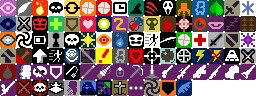
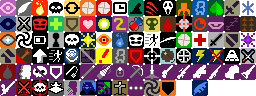
v0.0.9 Developing new hero - skill tier 3

Changed region(s): [[0.6875, 0.8125, 0.8125, 1.0]]

diff --git a/core/src/main/java/com/shatteredpixel/shatteredpixeldungeon/actors/buffs/DefenderBuff.java b/core/src/main/java/com/shatteredpixel/shatteredpixeldungeon/actors/buffs/DefenderBuff.java
@@ -1,0 +1,75 @@
+package com.shatteredpixel.shatteredpixeldungeon.actors.buffs;
+
+import com.shatteredpixel.shatteredpixeldungeon.Dungeon;
+import com.shatteredpixel.shatteredpixeldungeon.actors.hero.Talent;
+import com.shatteredpixel.shatteredpixeldungeon.messages.Messages;
+import com.shatteredpixel.shatteredpixeldungeon.ui.BuffIndicator;
+import com.watabou.noosa.Image;
+import com.watabou.utils.Bundle;
+
+public class DefenderBuff extends Buff {
+
+    {
+        type = buffType.POSITIVE;
+        announced = true;
+    }
+
+    public int defenseCounter = 5 + Dungeon.hero.pointsInTalent(Talent.SHOCKWAVE_ABSORB);
+    public int defenseLeft = 5;
+    public int chargeCount = 0;
+    public int maxCount = 8 - Dungeon.hero.pointsInTalent(Talent.SHOCKWAVE_ABSORB);
+
+    private static final String COUNT	= "count";
+    private static final String LEFT	= "left";
+
+    @Override
+    public void storeInBundle( Bundle bundle ) {
+        super.storeInBundle( bundle );
+        bundle.put( COUNT, defenseCounter );
+        bundle.put( LEFT, defenseLeft );
+
+    }
+
+    @Override
+    public void restoreFromBundle( Bundle bundle ) {
+        super.restoreFromBundle( bundle );
+        defenseCounter = bundle.getInt( COUNT );
+        defenseLeft = bundle.getInt( LEFT );
+    }
+
+    public int getDefenseCounter() {
+        return this.defenseCounter;
+    }
+
+    public int getDefenseLeft() {
+        return this.defenseLeft;
+    }
+
+    public void countAddition() {
+        if (chargeCount >= maxCount && defenseCounter > defenseLeft) {
+            defenseLeft++;
+            chargeCount = 0;
+        }
+    }
+
+    @Override
+    public int icon() {
+        return BuffIndicator.DEFENDER_BARRIER;
+    }
+
+    @Override
+    public void tintIcon(Image icon) {
+        icon.hardlight(2f, 0.75f, 0f);
+    }
+
+    @Override
+    public float iconFadePercent() {
+        return Math.max(0, defenseLeft / defenseCounter);
+    }
+
+    @Override
+    public String desc() {
+        return Messages.get(this, "desc", defenseCounter);
+    }
+
+}

diff --git a/core/src/main/java/com/shatteredpixel/shatteredpixeldungeon/actors/mobs/Mob.java b/core/src/main/java/com/shatteredpixel/shatteredpixeldungeon/actors/mobs/Mob.java
@@ -46,6 +46,7 @@ import com.shatteredpixel.shatteredpixeldungeon.actors.buffs.Charm;
 import com.shatteredpixel.shatteredpixeldungeon.actors.buffs.Chill;
 import com.shatteredpixel.shatteredpixeldungeon.actors.buffs.CommandBuff;
 import com.shatteredpixel.shatteredpixeldungeon.actors.buffs.Corruption;
+import com.shatteredpixel.shatteredpixeldungeon.actors.buffs.DefenderBuff;
 import com.shatteredpixel.shatteredpixeldungeon.actors.buffs.Dread;
 import com.shatteredpixel.shatteredpixeldungeon.actors.buffs.FlavourBuff;
 import com.shatteredpixel.shatteredpixeldungeon.actors.buffs.Haste;
@@ -673,9 +674,6 @@ public abstract class Mob extends Char {
 		attack( enemy );
 		Invisibility.dispel(this);
 		spend( attackDelay() );
-		if (hero.hasTalent(Talent.REACTIVE_ARMOR)) {
-			HP -= 4*hero.pointsInTalent(Talent.REACTIVE_ARMOR);
-		}
 		super.onAttackComplete();
 	}
 	
@@ -884,7 +882,7 @@ public abstract class Mob extends Char {
 					&& Dungeon.hero.hasTalent(Talent.SCANNING)
 					&& Dungeon.hero.buff(Talent.ScanningCoolDown.class) == null) {
 				Buff.affect(hero, Tacsight.class, 1+Dungeon.hero.pointsInTalent(Talent.SCANNING));
-				Buff.affect(hero, Talent.ScanningCoolDown.class, 95-5*Dungeon.hero.pointsInTalent(Talent.SCANNING));
+				Buff.affect(hero, Talent.ScanningCoolDown.class, 100-10*Dungeon.hero.pointsInTalent(Talent.SCANNING));
 			}
 
 			if (Dungeon.hero.heroClass == HeroClass.CARROLL
@@ -903,6 +901,15 @@ public abstract class Mob extends Char {
 						FirearmWeapon.Charger.killCount = 0;
 					}
 				}
+			}
+			if (Dungeon.hero.subClass == HeroSubClass.DEFENDER && Dungeon.hero.buff(DefenderBuff.class) != null) {
+				Buff.affect(hero, DefenderBuff.class).chargeCount++;
+				if (hero.hasTalent(Talent.DEFENCE_MATRIX)) {
+					if (Random.Int(10) < Dungeon.hero.pointsInTalent(Talent.DEFENCE_MATRIX)) {
+						Buff.affect(hero, DefenderBuff.class).chargeCount++;
+					}
+				}
+				Buff.affect(hero, DefenderBuff.class).countAddition();
 			}
 		}
 

diff --git a/core/src/main/java/com/shatteredpixel/shatteredpixeldungeon/actors/hero/Hero.java b/core/src/main/java/com/shatteredpixel/shatteredpixeldungeon/actors/hero/Hero.java
@@ -53,6 +53,7 @@ import com.shatteredpixel.shatteredpixeldungeon.actors.buffs.CenobiteEnergy;
 import com.shatteredpixel.shatteredpixeldungeon.actors.buffs.Charm;
 import com.shatteredpixel.shatteredpixeldungeon.actors.buffs.CloseQuarters;
 import com.shatteredpixel.shatteredpixeldungeon.actors.buffs.Combo;
+import com.shatteredpixel.shatteredpixeldungeon.actors.buffs.DefenderBuff;
 import com.shatteredpixel.shatteredpixeldungeon.actors.buffs.DragonBuff;
 import com.shatteredpixel.shatteredpixeldungeon.actors.buffs.Drowsy;
 import com.shatteredpixel.shatteredpixeldungeon.actors.buffs.FlavourBuff;
@@ -799,7 +800,7 @@ public class Hero extends Char {
 		if (this.subClass == HeroSubClass.CAPTAIN) {
 			CaptainCombo combo = (CaptainCombo) buff(CaptainCombo.class);
 			if (combo != null) {
-				accuracy *= 0.3f * combo.getComboCount();
+				accuracy += 0.003f * combo.getComboCount();
 			}
 		}
 
@@ -1838,6 +1839,18 @@ public class Hero extends Char {
 			if (barrier.left <= 0) {
 				barrier.detach();
 			}
+			Sample.INSTANCE.play(Assets.Sounds.HIT_PARRY, 0.75f, 1f);
+		}
+
+		DefenderBuff defenderBuff = hero.buff(DefenderBuff.class);
+		if (defenderBuff != null && defenderBuff.getDefenseLeft() > 0) {
+			dmg -= 99999;
+			if (hero.hasTalent(Talent.DEFENCE_MATRIX) && Random.Int(50) < hero.pointsInTalent(Talent.DEFENCE_MATRIX)) {
+				//don't spend the count
+			} else {
+				defenderBuff.defenseLeft--;
+			}
+			Camera.main.shake( 1.5f, 0.2f );
 			Sample.INSTANCE.play(Assets.Sounds.HIT_PARRY, 0.75f, 1f);
 		}
 

diff --git a/core/src/main/java/com/shatteredpixel/shatteredpixeldungeon/actors/buffs/CaptainCombo.java b/core/src/main/java/com/shatteredpixel/shatteredpixeldungeon/actors/buffs/CaptainCombo.java
@@ -182,11 +182,11 @@ public class CaptainCombo extends Buff implements ActionIndicator.Action {
     }
 
     public enum ComboMove {
-        CAS(5, 0xFF00FF00),         // skill-1
-        SUPPLYI   (10, 0xFFCCFF00), // skill-2
-        RECON  (20, 0xFFFFFF00),    // skill-3
-        SUPPLYII (30, 0xFFFFCC00),  // skill-4
-        ANNIHILATION (40, 0xFFFF0000); // skill-5
+        CAS         (5, 0xFF00FF00),  // skill-1
+        SUPPLYI     (10, 0xFFCCFF00), // skill-2
+        RECON       (20, 0xFFFFFF00), // skill-3
+        SUPPLYII    (30, 0xFFFFCC00), // skill-4
+        ANNIHILATION(40, 0xFFFF0000); // skill-5
 
         public int comboReq, tintColor;
 

diff --git a/core/src/main/java/com/shatteredpixel/shatteredpixeldungeon/items/armor/Armor.java b/core/src/main/java/com/shatteredpixel/shatteredpixeldungeon/items/armor/Armor.java
@@ -454,6 +454,11 @@ public class Armor extends EquipableItem {
 
 		if (hero.hasTalent(Talent.REACTIVE_ARMOR)) {
 			damage *= 1 - 0.07f*hero.pointsInTalent(Talent.REACTIVE_ARMOR);
+			if (attacker.HP > 4*hero.pointsInTalent(Talent.REACTIVE_ARMOR) && !(attacker.properties().contains(Char.Property.BOSS))) {
+				attacker.HP -= 4*hero.pointsInTalent(Talent.REACTIVE_ARMOR);
+				attacker.sprite.bloodBurstA(attacker.sprite.center(), 4*hero.pointsInTalent(Talent.REACTIVE_ARMOR));
+				attacker.sprite.flash();
+			}
 		}
 		
 		if (!levelKnown && defender == Dungeon.hero) {

diff --git a/core/src/main/java/com/shatteredpixel/shatteredpixeldungeon/ui/BuffIndicator.java b/core/src/main/java/com/shatteredpixel/shatteredpixeldungeon/ui/BuffIndicator.java
@@ -138,8 +138,9 @@ public class BuffIndicator extends Component {
 	public static final int CENOBITE_ENERGY	= 87;
 	public static final int DUEL_COMBO		= 89;
 	public static final int DAZE			= 90;
-	public static final int DEFENDING		= 91;
-	public static final int DRAGON			= 92;
+	public static final int REACT_SHIELD	= 91;
+	public static final int DEFENDER_BARRIER= 92;
+	public static final int DRAGON			= 93;
 
 	public static final int SIZE_SMALL  = 7;
 	public static final int SIZE_LARGE  = 16;

diff --git a/core/src/main/java/com/shatteredpixel/shatteredpixeldungeon/actors/hero/Talent.java b/core/src/main/java/com/shatteredpixel/shatteredpixeldungeon/actors/hero/Talent.java
@@ -997,6 +997,9 @@ public enum Talent {
 		if (hero.pointsInTalent(HUNTERS_INTUITION) == 2 && item instanceof MeleeWeapon && !(item instanceof FirearmWeapon)) {
 			item.identify();
 		}
+		if (hero.pointsInTalent(HARDENED_INTUTION) == 2 && item instanceof Armor) {
+			item.identify();
+		}
 	}
 
 	//note that IDing can happen in alchemy scene, so be careful with VFX here

diff --git a/core/src/main/java/com/shatteredpixel/shatteredpixeldungeon/Badges.java b/core/src/main/java/com/shatteredpixel/shatteredpixeldungeon/Badges.java
@@ -954,10 +954,9 @@ public class Badges {
 	}
 
 	public static void validateMagnusUnlock(){
-		if (Dungeon.hero.lvl >= 15 && !isUnlocked(Badge.UNLOCK_MAGNUS)) {
+		if (Dungeon.hero.lvl == 15 && !isUnlocked(Badge.UNLOCK_MAGNUS)) {
 			displayBadge( Badge.UNLOCK_MAGNUS );
 		}
-		displayBadge( Badge.UNLOCK_MAGNUS );
 	}
 
 	public static void validateCarrollUnlock(){

diff --git a/core/src/main/java/com/shatteredpixel/shatteredpixeldungeon/items/ReactiveShield.java b/core/src/main/java/com/shatteredpixel/shatteredpixeldungeon/items/ReactiveShield.java
@@ -77,7 +77,7 @@ public class ReactiveShield extends Item{
 
         @Override
         public int icon() {
-            return BuffIndicator.DEFENDING;
+            return BuffIndicator.REACT_SHIELD;
         }
 
         @Override
